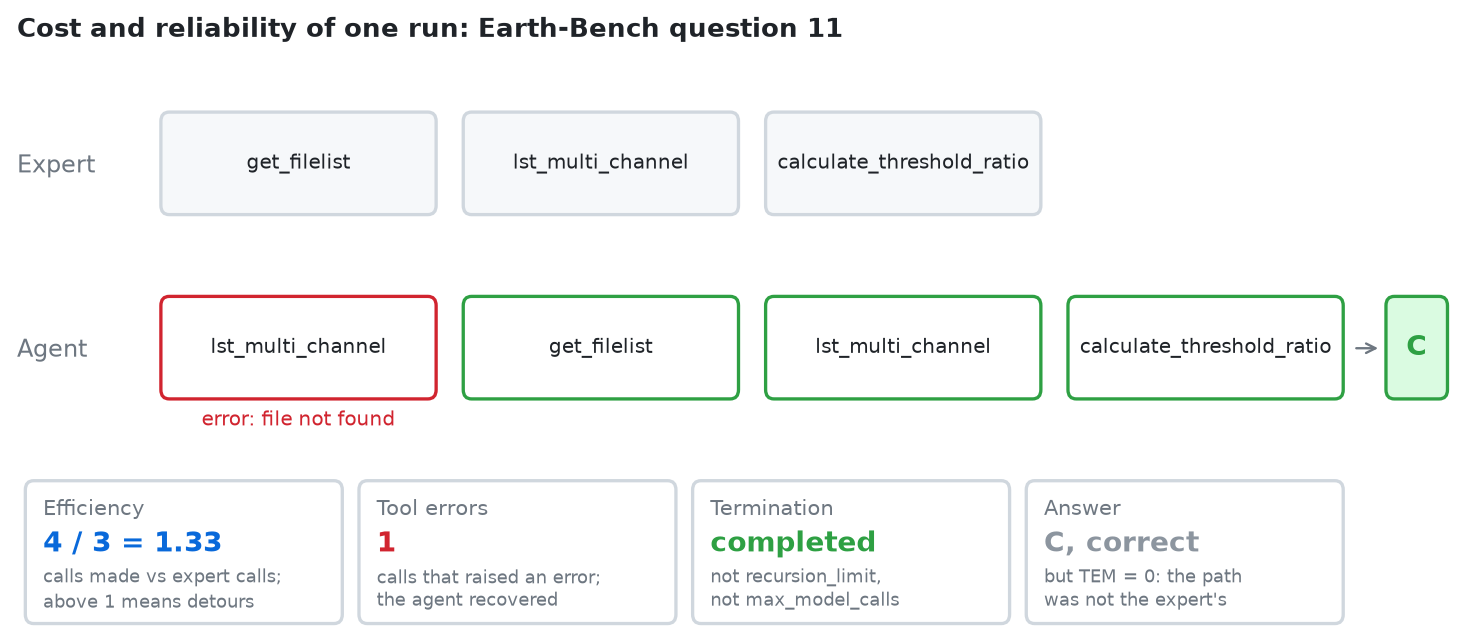
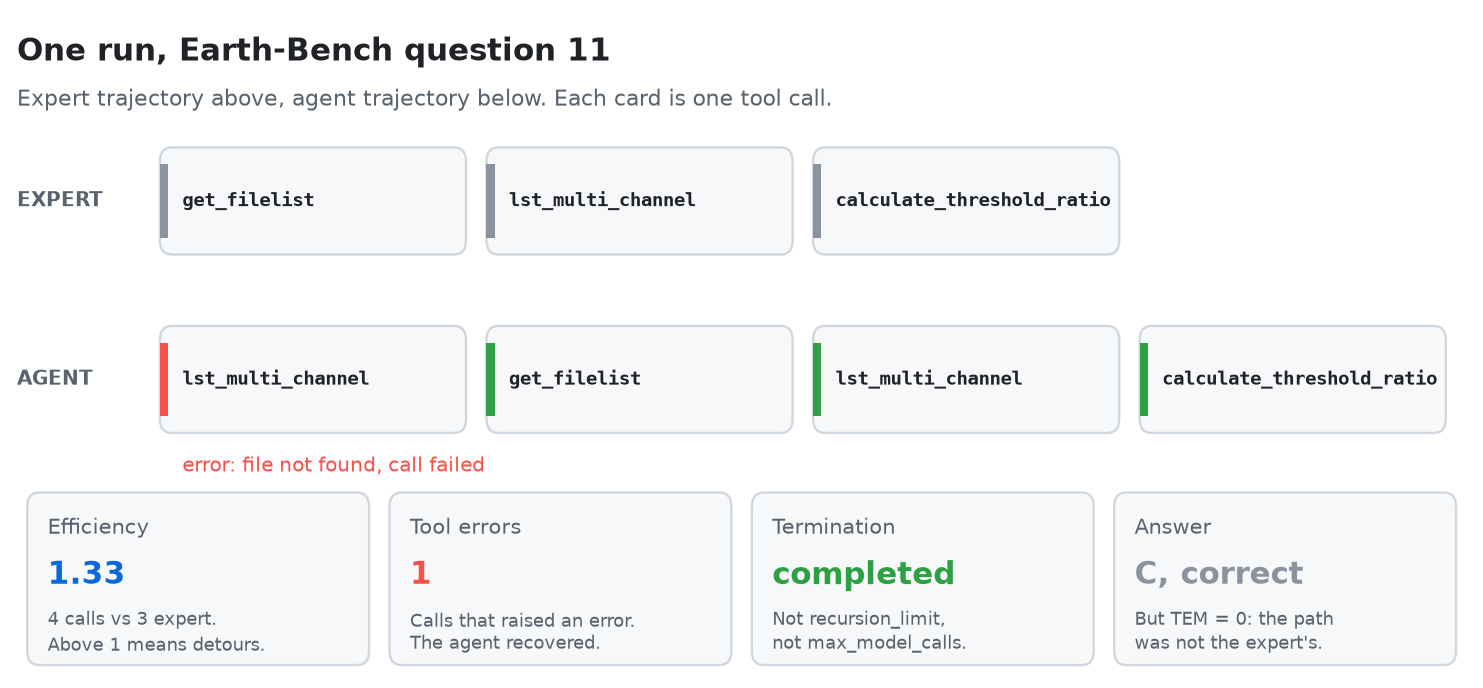
Restyle the workshop figures to match the trace viewer: status colours, rounded cards with coloured left bars, monospace tool names.

diff --git a/sagemaker/figures/make_figures.py b/sagemaker/figures/make_figures.py
@@ -1,5 +1,8 @@
 """Regenerate the figures the workshop notebook embeds: ``python figures/make_figures.py`` from this folder.
 
+The styling matches the trace viewer in ``workshop.py`` (``compare_html``): the same status
+colours, rounded cards with a coloured left bar, monospace tool names, and muted labels.
+
 The Pass@k tree uses illustrative edge probabilities; Pass@k = 1 - (1 - p)^k.
 The run anatomy is the real trace of Earth-Bench question 11 from an EVE run.
 """
@@ -10,30 +13,54 @@ import matplotlib
 
 matplotlib.use("Agg")
 import matplotlib.pyplot as plt
-from matplotlib.patches import FancyBboxPatch
+from matplotlib.patches import Circle, FancyBboxPatch, Rectangle
 
 OUT = Path(__file__).resolve().parent
-INK, MUTED, GRID = "#1f2328", "#6e7781", "#d0d7de"
-GREEN, RED, AMBER, BLUE, GREY = "#2ea043", "#d1242f", "#bf8700", "#0969da", "#8c959f"
-plt.rcParams.update({"font.family": "DejaVu Sans", "text.color": INK, "axes.edgecolor": GRID, "axes.labelcolor": INK,
-                     "xtick.color": MUTED, "ytick.color": MUTED, "figure.facecolor": "white", "axes.facecolor": "white"})
+
+# Same palette as workshop._STATUS and the viewer's card styles.
+INK, MUTED, RULE = "#1f2328", "#59636e", "#d0d7de"
+CARD, CARD_EDGE = "#f6f8fa", "#d0d7de"
+GREEN, AMBER, RED, GREY, PURPLE, BLUE = "#2ea043", "#d29922", "#f85149", "#8b949e", "#8250df", "#0969da"
+plt.rcParams.update({
+    "font.family": "DejaVu Sans",
+    "text.color": INK,
+    "figure.facecolor": "white",
+    "axes.facecolor": "white",
+})
+MONO = {"family": "DejaVu Sans Mono"}
 
 
-def box(ax, x, y, w, h, text, face, edge, size=9.5, color=INK, weight="normal"):
-    ax.add_patch(FancyBboxPatch((x, y), w, h, boxstyle="round,pad=0.02,rounding_size=0.08", fc=face, ec=edge, lw=1.4))
-    ax.text(x + w / 2, y + h / 2, text, ha="center", va="center", fontsize=size, color=color, fontweight=weight)
+def card(ax, x, y, w, h, bar=None, fill=CARD, edge=CARD_EDGE, lw=1.0):
+    """A rounded card with an optional coloured left bar, the viewer's ``border-left``."""
+    ax.add_patch(FancyBboxPatch((x, y), w, h, boxstyle="round,pad=0,rounding_size=0.12",
+                                fc=fill, ec=edge, lw=lw, zorder=2))
+    if bar:
+        ax.add_patch(Rectangle((x, y + 0.14), 0.08, h - 0.28, color=bar, lw=0, zorder=3))
+
+
+def dot(ax, x, y, colour, glyph, r=0.24):
+    """The round status marker the viewer draws between expert and agent."""
+    ax.add_patch(Circle((x, y), r, fc=colour, ec="none", zorder=4))
+    ax.text(x, y - 0.01, glyph, ha="center", va="center", color="white", fontsize=10, fontweight="bold", zorder=5)
+
+
+def pill(ax, x, y, text, colour=INK):
+    """A small bordered label, like the viewer's score chips."""
+    ax.text(x, y, text, ha="center", va="center", fontsize=8.5, color=colour, zorder=6,
+            bbox=dict(boxstyle="round,pad=0.22", fc="white", ec=RULE, lw=0.9))
 
 
 def pass_at_k_tree():
     """Tree of possible traces for one task. Edge probabilities are illustrative; the three drawn attempts are one sample."""
-    fig, ax = plt.subplots(figsize=(11.5, 5.6))
-    ax.set_xlim(-0.3, 12.6)
+    fig, ax = plt.subplots(figsize=(11.5, 6.0))
+    ax.set_xlim(-0.3, 14.0)
     ax.set_ylim(-2.1, 5.9)
     ax.axis("off")
-    ax.set_title("One task, many possible traces: Pass@k asks whether k sampled traces include a correct one",
-                 loc="left", fontsize=11, fontweight="bold")
+    ax.text(0.0, 5.55, "One task, many possible traces", fontsize=13, fontweight="bold", color=INK, va="center")
+    ax.text(0.0, 5.12, "Pass@k asks whether k sampled traces include a correct one.", fontsize=9.5, color=MUTED, va="center")
+
     X = [0.0, 3.3, 6.9, 10.6]
-    W, H = [2.0, 2.6, 3.0, 1.9], 0.78
+    W, H = [2.0, 2.6, 3.0, 2.1], 0.8
     nodes = {  # name: (depth, y, text, probability from parent)
         "root": (0, 2.25, "Question 11", None),
         "A": (1, 3.75, "calls get_filelist", 0.65),
@@ -61,88 +88,94 @@ def pass_at_k_tree():
 
     for n in nodes:
         reach(n)
-    # edges
+
+    # Edges, with their probability as a bordered label.
     for child, par in parent.items():
         d, y, _, pr = nodes[child]
         pd_, py, _, _ = nodes[par]
         x0, x1 = X[pd_] + W[pd_], X[d]
-        ax.plot([x0, x1], [py + H / 2, y + H / 2], color=GRID, lw=1.6, zorder=1)
-        if pr < 1.0:
-            t = 0.62
-            ax.text(x0 + t * (x1 - x0), py + H / 2 + t * (y - py), f"{pr:.2f}", fontsize=8, color=INK, ha="center", va="center",
-                    bbox=dict(fc="white", ec=GRID, boxstyle="round,pad=0.18"), zorder=6)
-    # sampled attempts, drawn over the tree
-    attempts = [("1", ["root", "B", "B2", "L6"], BLUE), ("2", ["root", "B", "B1", "L4"], "#8250df"),
+        ax.plot([x0, x1], [py + H / 2, y + H / 2], color=RULE, lw=1.6, zorder=1)
+        t = 0.62
+        pill(ax, x0 + t * (x1 - x0), py + H / 2 + t * (y - py), f"{pr:.2f}")
+
+    # Sampled attempts, drawn over the tree.
+    attempts = [("1", ["root", "B", "B2", "L6"], BLUE), ("2", ["root", "B", "B1", "L4"], PURPLE),
                 ("3", ["root", "A", "A1", "L1"], AMBER)]
     for label, path, colour in attempts:
         off = {"1": -0.09, "2": 0.0, "3": 0.09}[label]
-        xs, ys = [], []
-        for n in path:
-            d, y, *_ = nodes[n]
-            xs += [X[d] + W[d] / 2 + off * 4 if False else X[d] + W[d] * 0.5, ]
-            ys += [y + H / 2 + off]
         for a_, b_ in zip(path, path[1:]):
             da, ya, *_ = nodes[a_]
             db, yb, *_ = nodes[b_]
-            ax.plot([X[da] + W[da], X[db]], [ya + H / 2 + off, yb + H / 2 + off], color=colour, lw=3.2, alpha=0.9, zorder=3)
+            ax.plot([X[da] + W[da], X[db]], [ya + H / 2 + off, yb + H / 2 + off], color=colour, lw=3.0, alpha=0.9, zorder=3)
         d, y, *_ = nodes[path[-1]]
         ax.text(X[d] + W[d] + 0.25, y + H / 2, f"attempt {label}", fontsize=9, fontweight="bold", color=colour, va="center")
-    # nodes
+
+    # Nodes as cards: leaves coloured by outcome, internal nodes grey, the root outlined.
     for name, (d, y, text, pr) in nodes.items():
-        leaf = name.startswith("L")
-        if leaf:
+        if name.startswith("L"):
             ok = name in correct
-            face, edge, ink = ("#dafbe1", GREEN, GREEN) if ok else ("#ffebe9", RED, RED)
-            box(ax, X[d], y, W[d], H, ("\u2713 " if ok else "\u2717 ") + text, face, edge, size=8.8, color=ink, weight="bold")
+            colour = GREEN if ok else RED
+            card(ax, X[d], y, W[d], H, bar=colour)
+            ax.text(X[d] + 0.22, y + H / 2, ("✓ " if ok else "✗ ") + text, fontsize=9.2,
+                    fontweight="bold", color=colour, va="center", zorder=5)
+        elif name == "root":
+            card(ax, X[d], y, W[d], H, bar=None, fill="white", edge=INK, lw=1.4)
+            ax.text(X[d] + W[d] / 2, y + H / 2, text, fontsize=9.5, fontweight="bold", ha="center", va="center", zorder=5)
         else:
-            box(ax, X[d], y, W[d], H, text, "#f6f8fa" if name != "root" else "#fff", GRID if name != "root" else INK,
-                size=8.4, weight="bold" if name == "root" else "normal")
+            card(ax, X[d], y, W[d], H, bar=GREY)
+            ax.text(X[d] + 0.22, y + H / 2, text, fontsize=8.8, va="center", color=INK, zorder=5, linespacing=1.25)
+
     p_ok = sum(prob[n] for n in correct)
     ps = [1 - (1 - p_ok) ** k for k in (1, 2, 3)]
-    ax.text(0.0, -0.55, "Numbers on the edges: chance the agent takes that branch from the node on its left (illustrative; the edges leaving a node add up to 1).",
-            fontsize=9.2, color=INK)
-    ax.text(0.0, -0.95, f"Multiply along a path for the chance of that trace; add the green leaves for the chance p that one attempt is correct: p = {p_ok:.2f}.",
-            fontsize=9.2, color=INK)
+    ax.text(0.0, -0.55, "Numbers on the edges: chance the agent takes that branch from the node on its left "
+            "(illustrative; the edges leaving a node add up to 1).", fontsize=9.2, color=INK)
+    ax.text(0.0, -0.95, f"Multiply along a path for the chance of that trace; add the green leaves for the chance "
+            f"p that one attempt is correct: p = {p_ok:.2f}.", fontsize=9.2, color=INK)
     ax.text(0.0, -1.45, f"Expected Pass@1 = {ps[0]:.2f}     Pass@2 = {ps[1]:.2f}     Pass@3 = {ps[2]:.2f}",
             fontsize=10.5, fontweight="bold", color=GREEN)
-    ax.text(0.0, -1.85, "This draw: attempt 1 gives up (wrong), attempts 2 and 3 are correct, so this task scores Pass@1 = 0, Pass@2 = 1, Pass@3 = 1.",
-            fontsize=9.2, color=MUTED)
+    ax.text(0.0, -1.85, "This draw: attempt 1 gives up (wrong), attempts 2 and 3 are correct, so this task scores "
+            "Pass@1 = 0, Pass@2 = 1, Pass@3 = 1.", fontsize=9.2, color=MUTED)
     fig.savefig(OUT / "pass_at_k_tree.png", dpi=170, bbox_inches="tight")
     plt.close(fig)
 
 
 def run_anatomy():
-    fig, ax = plt.subplots(figsize=(11, 4.4))
-    ax.set_xlim(0, 13.9)
-    ax.set_ylim(0, 5.0)
+    """One real run as cards, like the trace viewer's rows, plus stat tiles."""
+    fig, ax = plt.subplots(figsize=(11, 5.0))
+    ax.set_xlim(0, 14.2)
+    ax.set_ylim(0, 5.5)
     ax.axis("off")
-    ax.set_title("Cost and reliability of one run: Earth-Bench question 11", loc="left", fontsize=11, fontweight="bold")
-    w, h, step = 2.6, 0.85, 2.9
-    ax.text(0.0, 4.0, "Expert", fontsize=10, color=MUTED, va="center")
-    for i, name in enumerate(["get_filelist", "lst_multi_channel", "calculate_threshold_ratio"]):
-        box(ax, 1.4 + i * step, 3.6, w, h, name, "#f6f8fa", GRID, size=8.6)
-    ax.text(0.0, 2.4, "Agent", fontsize=10, color=MUTED, va="center")
-    agent = [("lst_multi_channel", RED, "error: file not found"), ("get_filelist", GREEN, ""), ("lst_multi_channel", GREEN, ""),
-             ("calculate_threshold_ratio", GREEN, "")]
-    for i, (name, colour, note) in enumerate(agent):
-        x = 1.4 + i * step
-        box(ax, x, 2.0, w, h, name, "#fff", colour, size=8.6)
-        if note:
-            ax.text(x + w / 2, 1.75, note, ha="center", fontsize=8.4, color=RED)
-    box(ax, 13.15, 2.0, 0.55, h, "C", "#dafbe1", GREEN, size=12, color=GREEN, weight="bold")
-    ax.annotate("", xy=(13.1, 2.42), xytext=(12.8, 2.42), arrowprops=dict(arrowstyle="->", color=MUTED))
-    cards = [
-        ("Efficiency", "4 / 3 = 1.33", "calls made vs expert calls;\nabove 1 means detours", BLUE),
-        ("Tool errors", "1", "calls that raised an error;\nthe agent recovered", RED),
-        ("Termination", "completed", "not recursion_limit,\nnot max_model_calls", GREEN),
-        ("Answer", "C, correct", "but TEM = 0: the path\nwas not the expert's", GREY),
+    ax.text(0.0, 5.2, "One run, Earth-Bench question 11", fontsize=13, fontweight="bold", color=INK, va="center")
+    ax.text(0.0, 4.8, "Expert trajectory above, agent trajectory below. Each card is one tool call.",
+            fontsize=9.5, color=MUTED, va="center")
+
+    xs = [1.4, 4.6, 7.8, 11.0]
+    w, h = 3.0, 0.9
+    ax.text(0.0, 3.95, "EXPERT", fontsize=8.5, color=MUTED, va="center", fontweight="bold")
+    for x, name in zip(xs, ["get_filelist", "lst_multi_channel", "calculate_threshold_ratio"]):
+        card(ax, x, 3.5, w, h, bar=GREY)
+        ax.text(x + 0.22, 3.5 + h / 2, name, fontsize=8.2, va="center", zorder=5, **MONO, fontweight="bold")
+
+    ax.text(0.0, 2.45, "AGENT", fontsize=8.5, color=MUTED, va="center", fontweight="bold")
+    agent = [("lst_multi_channel", RED), ("get_filelist", GREEN), ("lst_multi_channel", GREEN),
+             ("calculate_threshold_ratio", GREEN)]
+    for x, (name, colour) in zip(xs, agent):
+        card(ax, x, 2.0, w, h, bar=colour)
+        ax.text(x + 0.22, 2.0 + h / 2, name, fontsize=8.2, va="center", zorder=5, **MONO, fontweight="bold")
+    ax.text(xs[0] + 0.22, 1.72, "error: file not found, call failed", fontsize=8.4, color=RED, va="center")
+
+    tiles = [
+        ("Efficiency", "1.33", "4 calls vs 3 expert.\nAbove 1 means detours.", BLUE),
+        ("Tool errors", "1", "Calls that raised an error.\nThe agent recovered.", RED),
+        ("Termination", "completed", "Not recursion_limit,\nnot max_model_calls.", GREEN),
+        ("Answer", "C, correct", "But TEM = 0: the path\nwas not the expert's.", GREY),
     ]
-    for i, (title, value, note, colour) in enumerate(cards):
-        x = 0.1 + i * 3.2
-        box(ax, x, 0.05, 3.0, 1.2, "", "#fff", GRID)
-        ax.text(x + 0.15, 1.02, title, fontsize=8.8, color=MUTED, va="center")
-        ax.text(x + 0.15, 0.72, value, fontsize=12, fontweight="bold", color=colour, va="center")
-        ax.text(x + 0.15, 0.33, note, fontsize=7.6, color=MUTED, va="center", linespacing=1.3)
+    for i, (title, value, note, colour) in enumerate(tiles):
+        x = 0.1 + i * 3.55
+        card(ax, x, 0.05, 3.35, 1.45)
+        ax.text(x + 0.2, 1.2, title, fontsize=9, color=MUTED, va="center")
+        ax.text(x + 0.2, 0.8, value, fontsize=13, fontweight="bold", color=colour, va="center")
+        ax.text(x + 0.2, 0.33, note, fontsize=7.8, color=MUTED, va="center", linespacing=1.3)
     fig.savefig(OUT / "run_anatomy.png", dpi=170, bbox_inches="tight")
     plt.close(fig)
 
